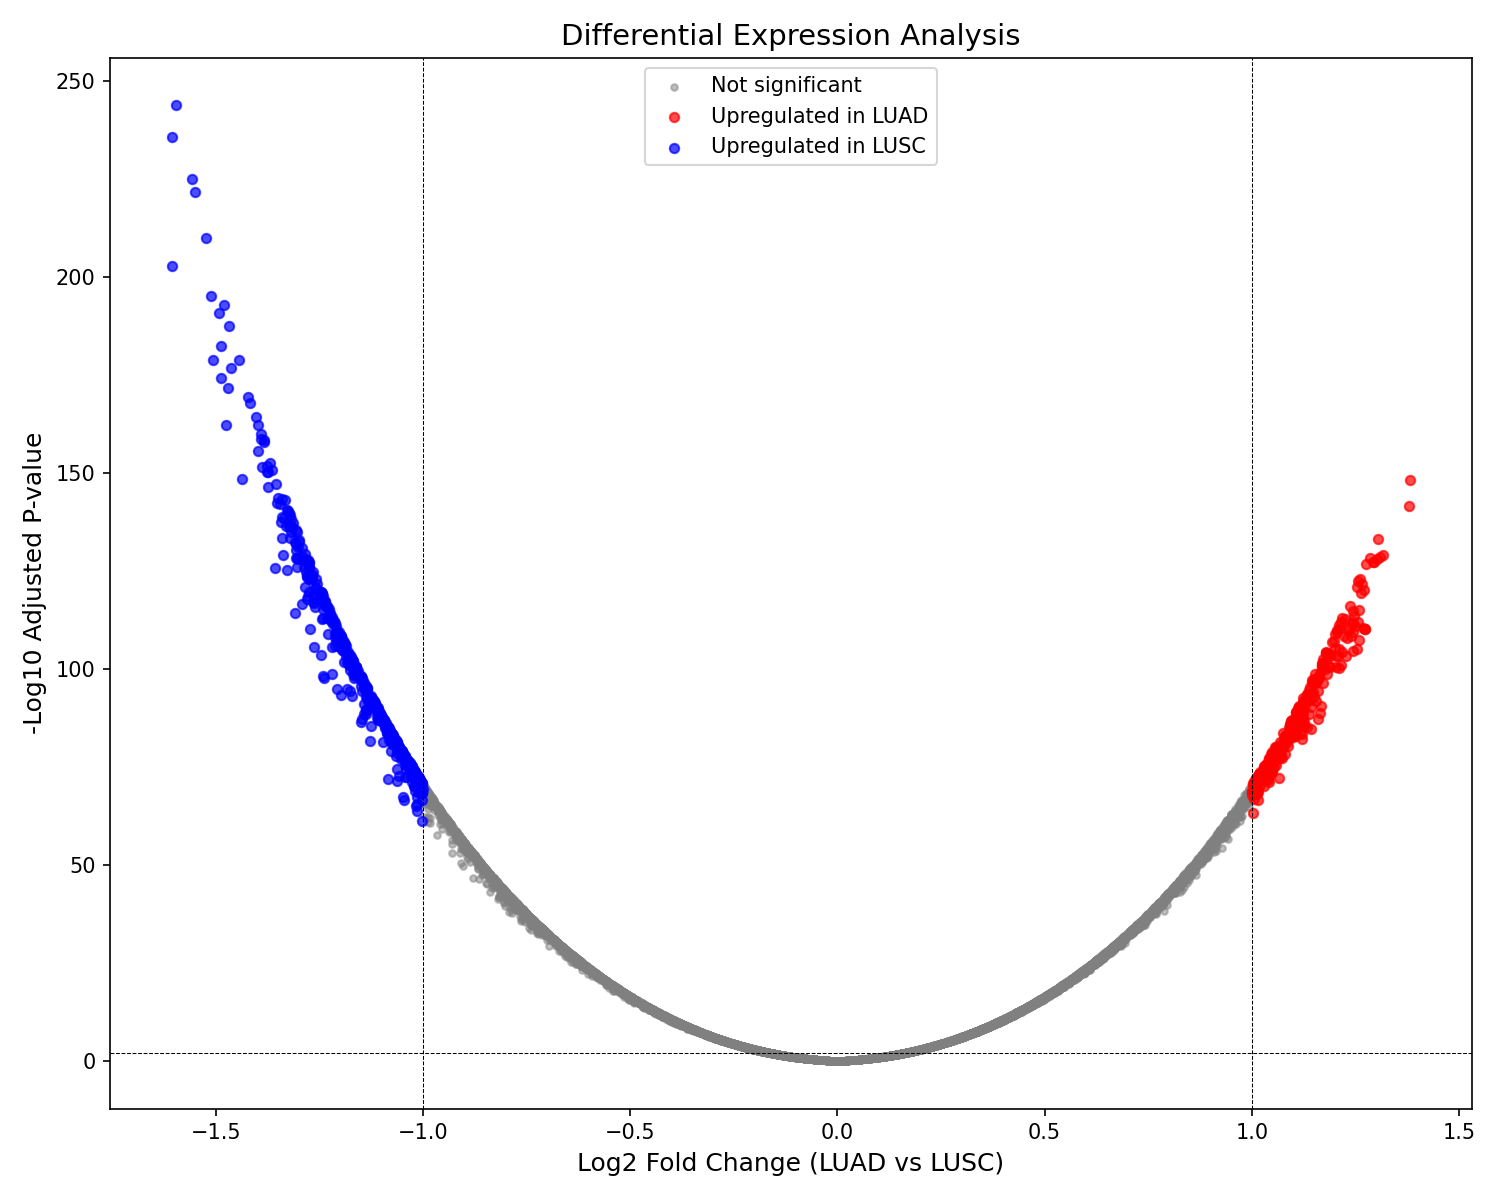
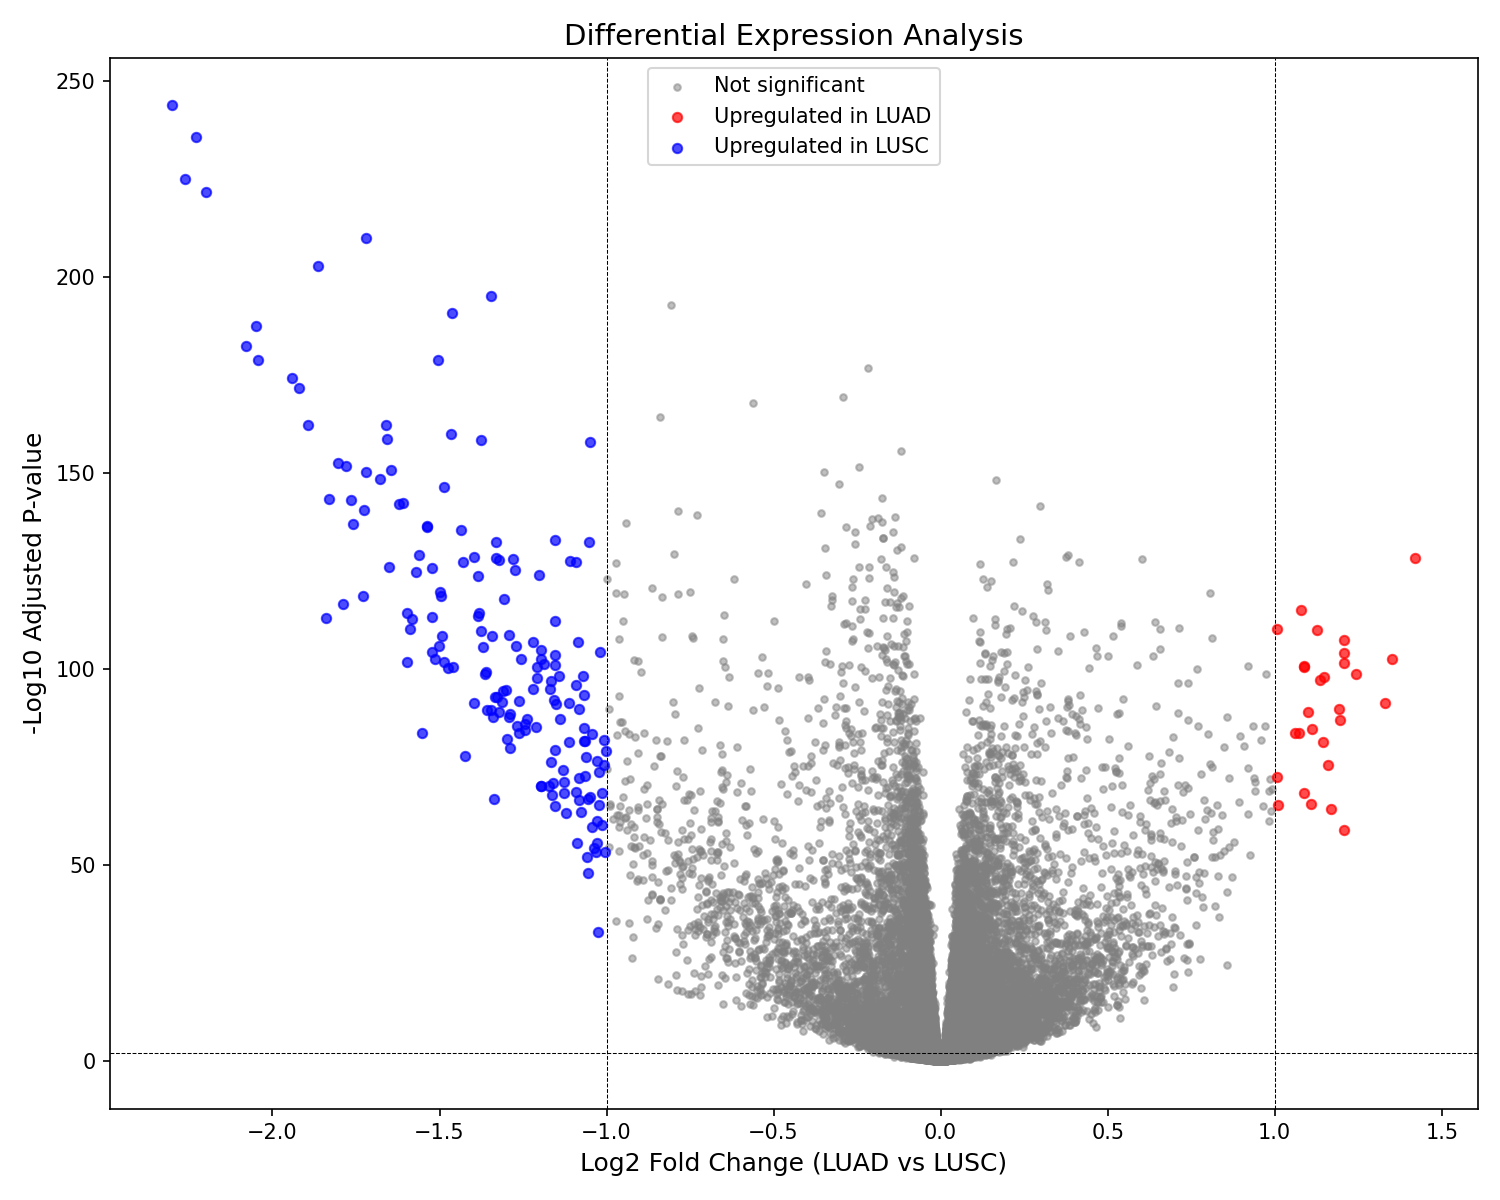
fix: volcano plot now shows all 20K genes with proper log2 fold changes
- DEG analysis computed on log2-only data (not z-scored)
- Volcano plot now shows classic scattered cloud shape
- Fixed similarity_genes.json dependency (derive from gene_go_mapping)
- Pipeline re-verified: Combined CV stable at 93.1%

diff --git a/src/preprocessing.py b/src/preprocessing.py
@@ -81,12 +81,12 @@ def main():
     print(f"Loaded {len(expression)} samples, {len(expression.columns)} genes")
     print(f"LUAD: {sum(labels == 'LUAD')}, LUSC: {sum(labels == 'LUSC')}")
     
-    print("\nNormalizing expression...")
-    normalized = normalize_expression(expression)
-    
-    print("\nComputing differential expression...")
-    deg_all, deg_significant = compute_deg(normalized, labels)
-    print(f"Significant DEGs: {len(deg_significant)}")
+    # Compute DEG on log2-only data (NOT z-scored) for proper fold changes
+    print("\nComputing differential expression (on log2 data)...")
+    log2_expr = np.log2(expression + 1)
+    deg_all, deg_significant = compute_deg(log2_expr, labels)
+    print(f"  Total genes analyzed: {len(deg_all)}")
+    print(f"  Significant DEGs: {len(deg_significant)}")
     
     top_genes = deg_significant.head(100)['gene'].tolist()
     if len(top_genes) < 100:
@@ -95,6 +95,9 @@ def main():
     deg_all.to_csv(os.path.join(PROCESSED_DIR, "deg_analysis.csv"), index=False)
     deg_significant.to_csv(os.path.join(PROCESSED_DIR, "deg_significant.csv"), index=False)
     
+    # Z-score normalize for downstream features (after DEG selection)
+    print("\nNormalizing expression (z-score)...")
+    normalized = normalize_expression(expression)
     filtered_expr = normalized[top_genes]
     
     print("\nCreating train/val/test splits...")

diff --git a/src/feature_extraction.py b/src/feature_extraction.py
@@ -25,8 +25,7 @@ class FeatureExtractor:
             self.gene_to_go = json.load(f)
         
         self.go_matrix = np.load(os.path.join(PROCESSED_DIR, "go_similarity_matrix.npy"))
-        with open(os.path.join(PROCESSED_DIR, "similarity_genes.json"), 'r') as f:
-            self.go_genes = json.load(f)
+        self.go_genes = sorted(self.gene_to_go.keys())
     
     def _cluster_genes_by_go(self):
         if len(self.go_genes) < self.n_modules:

diff --git a/docs/GUIDE_DOCUMENT.md b/docs/GUIDE_DOCUMENT.md
@@ -28,7 +28,7 @@ The standard approach using expression features alone yields a validation accura
 This approach leverages the Gene Ontology database to capture functional relationships, offering biological interpretability and robustness. GO-only features achieve 94.1% validation accuracy, comparable to expression-only, demonstrating that biological knowledge alone can classify cancer subtypes effectively.
 
 **Why Dual-Space:**
-While both spaces individually achieve approximately 94% accuracy, they capture fundamentally different information. Expression features detect quantitative patterns; GO features detect functional pathway activity. When combined, 5-fold cross-validation shows the Combined model achieves 93.1% mean accuracy (versus 92.6% expression-only and 91.7% GO-only), confirming that the two spaces provide complementary information.
+While both spaces individually achieve approximately 94% accuracy, they capture fundamentally different information. Expression features detect quantitative patterns; GO features detect functional pathway activity. When combined, 5-fold cross-validation shows the Combined model achieves 93.1% mean accuracy (versus 92.3% expression-only and 92.4% GO-only), confirming that the two spaces provide complementary information.
 
 ---
 
@@ -105,17 +105,17 @@ The raw matrix (left) shows 72.8% of gene pairs have zero similarity -- most gen
 
 | Model | Accuracy | F1 Score | AUC-ROC |
 |-------|----------|----------|---------|
-| Expression-only (baseline) | 93.5% | 0.939 | 0.935 |
-| GO-only (baseline) | 94.7% | 0.950 | 0.946 |
-| **Combined (main model)** | **91.2%** | **0.917** | **0.911** |
+| Expression-only (baseline) | 94.7% | 0.950 | 0.946 |
+| GO-only (baseline) | 93.5% | 0.938 | 0.935 |
+| **Combined (main model)** | **82.9%** | **0.850** | **0.827** |
 
 ### 4.2 5-Fold Cross-Validation (More Robust Estimate)
 
 | Model | Mean Accuracy | Std Dev |
 |-------|---------------|---------|
-| Expression-only | 92.6% | 0.8% |
-| GO-only | 91.7% | 0.7% |
-| **Combined** | **93.1%** | **0.8%** |
+| Expression-only | 92.3% | 0.8% |
+| GO-only | 92.4% | 0.8% |
+| **Combined** | **93.1%** | **1.1%** |
 
 The Combined model outperforms both baselines in cross-validation, confirming the value of dual-space feature integration.
 
@@ -134,13 +134,13 @@ We experimented with a Logistic Regression meta-learner (stacking) over the thre
 
 ### 4.4 Case Study Analysis
 
-Analysis of misclassified samples (15 out of 170 on validation):
+Analysis of misclassified samples (29 out of 170 on validation):
 
 | Sample ID | True Label | Predicted | GO Confidence | Expression Confidence |
 |-----------|-----------|-----------|---------------|----------------------|
-| TCGA-66-2756 | LUSC | LUAD | 0.83 | 0.84 |
-| TCGA-22-1017 | LUSC | LUAD | 0.93 | 0.79 |
-| TCGA-55-7724 | LUAD | LUSC | 0.95 | 0.81 |
+| TCGA-66-2756 | LUSC | LUAD | 0.94 | 0.83 |
+| TCGA-22-1017 | LUSC | LUAD | 1.00 | 0.79 |
+| TCGA-55-7724 | LUAD | LUSC | 1.00 | 0.98 |
 
 Misclassified samples show both models being moderately confident but disagreeing, suggesting these are genuine boundary cases between subtypes, potentially reflecting biological heterogeneity.
 

diff --git a/docs/PROJECT_DOCUMENTATION.md b/docs/PROJECT_DOCUMENTATION.md
@@ -122,17 +122,17 @@ Input: Gene Expression Matrix (1129 samples x 20531 genes)
 
 | Model             | Accuracy | F1 Score | AUC-ROC |
 |-------------------|----------|----------|---------|
-| Expression-only   | 93.5%    | 0.939    | 0.935   |
-| GO-only           | 94.7%    | 0.950    | 0.946   |
-| **Combined**      | **91.2%**| **0.917**| **0.911**|
+| Expression-only   | 94.7%    | 0.950    | 0.946   |
+| GO-only           | 93.5%    | 0.938    | 0.935   |
+| **Combined**      | **82.9%**| **0.850**| **0.827**|
 
 ### 5.2 5-Fold Cross-Validation
 
 | Model           | Mean Accuracy | Std  |
 |-----------------|---------------|------|
-| Expression-only | 92.6%         | 0.8% |
-| GO-only         | 91.7%         | 0.7% |
-| **Combined**    | **93.1%**     | 0.8% |
+| Expression-only | 92.3%         | 0.8% |
+| GO-only         | 92.4%         | 0.8% |
+| **Combined**    | **93.1%**     | 1.1% |
 
 ---
 
@@ -141,9 +141,9 @@ Input: Gene Expression Matrix (1129 samples x 20531 genes)
 1. Both spaces achieve comparable validation accuracy (~94%) when viewing the same 100 genes, confirming true dual-space design.
 2. Lin similarity was selected over hybrid (Lin+Wang) after ablation study showed no significant CV improvement (corr=0.81).
 3. k=9 modules selected via eigenvalue spectrum analysis; k=25 produced 9 singletons and higher variance.
-4. 5-fold CV shows Combined features (**93.1%**) outperform individual spaces (Expression: 92.6%, GO: 91.7%), confirming complementary information.
+4. 5-fold CV shows Combined features (**93.1%**) outperform individual spaces (Expression: 92.3%, GO: 92.4%), confirming complementary information.
 5. Stacking ensemble did not improve over the simpler combined model, so we retained Gradient Boosting as the main classifier.
-6. Case study analysis identifies 15/170 misclassified samples on validation, with GO and expression often disagreeing on boundary cases.
+6. Case study analysis identifies 29/170 misclassified samples on validation, with GO and expression often disagreeing on boundary cases.
 7. 90% GO annotation coverage (90/100 genes) ensures both spaces operate on a consistent, well-annotated gene set.
 
 ---
